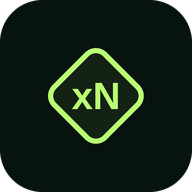
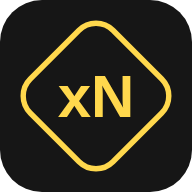
Switch the site to the xNotary.digital family theme: ink bar, highlighter
The look agreed in concept R03 (T4 Ink bar + the T2 highlighter), set as
token values only:

- a black bar (#161616) closed by a 3px yellow rule (#FFD84D); the brand
  mark, the "I want to…" button and the current tab are yellow
- warm-white pages (#FFFDF6) with white cards and black type, landing
  pages included — xNotary's dark green home is retired
- yellow buttons with black text and a black border
- a highlighter stroke behind "prove." on the front page
- a black footer with yellow links

Semantic tones (ok, warn, bad) are untouched, and the offline band stays
a muted beige, distinct from the chrome yellow. The green-grey text
scale becomes a warm one, which also lifts the faintest text from about
3.3:1 to 5.5:1 or better; every pair checked is WCAG AA. Favicons, app
icons, theme-color and the manifest colours follow.

The token names --white and --lime are kept, though they now hold
#111111: family apps that copy app.css refer to them.

diff --git a/app/src/app.css b/app/src/app.css
@@ -1,16 +1,15 @@
 /*
  * xNotary design system.
  *
- * Two surfaces, deliberately different:
+ * The xNotary.digital family look, shared with the front page and the other
+ * services: a black bar closed by a yellow rule, warm-white pages with white
+ * cards and black type, and yellow used like a highlighter — the current tab,
+ * the buttons, the brand mark, one marked word in a headline. Documents are
+ * what this is about, and a document is a light thing; the bar and the footer
+ * frame it.
  *
- *   - The landing view is dark (--bg) with a lime accent. It is the face of the
- *     product and the only page a visitor sees before deciding to trust it.
- *   - Every working screen is "paper" (--paper) with white cards. Documents are
- *     what this app is about, and a document is a light thing.
- *
- * The appearance is fixed rather than following prefers-color-scheme: the two
- * surfaces carry meaning here (you are reading about it / you are working on a
- * document), and inverting one of them breaks that.
+ * The appearance is fixed rather than following prefers-color-scheme: the
+ * surfaces carry meaning here, and inverting one of them breaks that.
  *
  * Every colour lives in :root below; the rules only ever say var(--…). A theme
  * is therefore a set of token values and nothing else. Semantic tones (ok, warn,
@@ -18,20 +17,23 @@
  */
 
 :root {
-  /* Dark surface — landing, top bar, footer */
-  --bg: #07130f;
-  --bg-soft: #0b1b16;
-  --white: #f8faf6;
-  --line: rgba(222, 234, 226, 0.14);
-  --lime: #baff73;
-  --mint: #59e6bd;
-  --green: #173f32;
+  /* Landing surface — the front page and xNotary's own home.
+     The names are historical (this surface was dark green with a lime accent):
+     --white is its text and --lime its accent. They are kept because other
+     family apps copy this file and refer to them. */
+  --bg: #fffdf6;
+  --bg-soft: #161616;
+  --white: #111111;
+  --line: rgba(17, 17, 17, 0.22);
+  --lime: #111111;
+  --mint: #111111;
+  --green: #111111;
 
   /* Paper surface — every product screen */
-  --paper: #f4f3ed;
-  --ink: #10201a;
-  --ink-soft: #5e6a65;
-  --line-dark: rgba(16, 32, 26, 0.13);
+  --paper: #fffdf6;
+  --ink: #111111;
+  --ink-soft: #3a3527;
+  --line-dark: rgba(17, 17, 17, 0.16);
 
   /* Semantic tones, on paper */
   --ok: #236048;
@@ -45,123 +47,124 @@
   --bad-line: #e9c5c0;
 
   /* Top bar — its own surface, so it can stay dark when the pages are light */
-  --bar-bg: rgba(7, 19, 15, 0.94);
-  --bar-fg: #f8faf6;
-  --bar-fg2: #acbab3;
-  --bar-line: rgba(222, 234, 226, 0.14);
-  --bar-rule: 1px solid rgba(222, 234, 226, 0.14);
-  --bar-hover: rgba(255, 255, 255, 0.045);
-  --bar-accent: #baff73;
-  --bar-current-fg: #baff73;
-  --bar-current-bg: rgba(186, 255, 115, 0.075);
-  --bar-chip: rgba(255, 255, 255, 0.035);
-  --bar-chip-hover-line: rgba(186, 255, 115, 0.35);
-  --bar-mark-line: rgba(186, 255, 115, 0.55);
-  --bar-mark-fg: #baff73;
-  --bar-mark-bg: rgba(186, 255, 115, 0.05);
-  --bar-focus: #59e6bd;
-  --caret: #8d9c95;
-  --task-fg: #baff73;
-  --task-line: rgba(186, 255, 115, 0.35);
-  --task-hover-fg: #baff73;
-  --task-hover-bg: rgba(186, 255, 115, 0.075);
-  --task-hover-line: rgba(186, 255, 115, 0.35);
-  --brand-domain: #9aaba3;
-  --stage-fg: #b7c2bc;
-  --stage-halo: rgba(186, 255, 115, 0.08);
+  --bar-bg: #161616;
+  --bar-fg: #f2efe6;
+  --bar-fg2: #c9c3b0;
+  --bar-line: rgba(255, 255, 255, 0.18);
+  --bar-rule: 3px solid #ffd84d;
+  --bar-hover: rgba(255, 255, 255, 0.08);
+  --bar-accent: #ffd84d;
+  --bar-current-fg: #111111;
+  --bar-current-bg: #ffd84d;
+  --bar-chip: rgba(255, 255, 255, 0.06);
+  --bar-chip-hover-line: #f2efe6;
+  --bar-mark-line: #ffd84d;
+  --bar-mark-fg: #ffd84d;
+  --bar-mark-bg: transparent;
+  --bar-focus: #ffd84d;
+  --caret: #c9c3b0;
+  --task-fg: #ffd84d;
+  --task-line: #ffd84d;
+  --task-hover-fg: #111111;
+  --task-hover-bg: #ffd84d;
+  --task-hover-line: #ffd84d;
+  --brand-domain: #c9c3b0;
+  --stage-fg: #c9c3b0;
+  --stage-halo: rgba(255, 216, 77, 0.18);
 
   /* Brand marks on the page (cards, menus, tags) */
-  --mark-line: rgba(186, 255, 115, 0.55);
-  --mark-fg: #baff73;
-  --mark-bg: rgba(186, 255, 115, 0.05);
+  --mark-line: #111111;
+  --mark-fg: #111111;
+  --mark-bg: transparent;
 
   /* Footer */
-  --footer-bg: #07130f;
-  --footer-rule: 1px solid rgba(222, 234, 226, 0.14);
-  --footer-focus: #59e6bd;
+  --footer-bg: #161616;
+  --footer-rule: none;
+  --footer-focus: #ffd84d;
 
   /* Focus ring on the pages */
-  --focus: #59e6bd;
+  --focus: #111111;
 
   /* Buttons */
-  --primary-bg: #baff73;
-  --primary-fg: #0d1a14;
-  --primary-line: transparent;
-  --primary-hover: #c9ff91;
-  --dark-btn-bg: #173f32;
-  --dark-btn-fg: #fff;
-  --dark-btn-line: transparent;
-  --dark-btn-hover: #205441;
+  --primary-bg: #ffd84d;
+  --primary-fg: #111111;
+  --primary-line: #111111;
+  --primary-hover: #ffcf26;
+  --dark-btn-bg: #ffd84d;
+  --dark-btn-fg: #111111;
+  --dark-btn-line: #111111;
+  --dark-btn-hover: #ffcf26;
 
   /* Landing surface, in detail */
-  --hero-glow: rgba(89, 230, 189, 0.1);
-  --hero-fg: #bac6c0;
-  --glass: rgba(255, 255, 255, 0.035);
-  --glass-hover: rgba(255, 255, 255, 0.055);
-  --glass-line: rgba(255, 255, 255, 0.14);
-  --glass-line-hover: rgba(255, 255, 255, 0.26);
-  --service-hover-line: rgba(186, 255, 115, 0.32);
-  --service-number: #789087;
-  --service-fg: #9eaea6;
-  --trust-fg: #84978e;
-  --future-fg: #c4cec9;
-  --vision-fg: #dfe8e3;
-  --vision-fg-soft: #9fb0a7;
-  --vision-bg: #0b1b16;
-  --footer-fg: #8d9c95;
-  --footer-link: #b6c5be;
+  --hero-glow: transparent;
+  --hero-fg: #2a2618;
+  --glass: #ffffff;
+  --glass-hover: #ffffff;
+  --glass-line: rgba(17, 17, 17, 0.45);
+  --glass-line-hover: #111111;
+  --service-hover-line: #111111;
+  --service-number: #57513f;
+  --service-fg: #3a3527;
+  --trust-fg: #3a3527;
+  --future-fg: #2a2618;
+  --vision-fg: #f2efe6;
+  --vision-fg-soft: #c9c3b0;
+  --vision-bg: #161616;
+  --vision-accent: #ffd84d;
+  --footer-fg: #c9c3b0;
+  --footer-link: #ffd84d;
 
   /* Text on solid fills (status icons) */
   --on-solid: #fff;
-  --ghost-dark-hover-line: #6f9183;
+  --ghost-dark-hover-line: #111111;
 
   /* Paper surface, in detail — every product screen */
-  --card: #fff;
-  --card-shadow: rgba(25, 42, 35, 0.055);
-  --well: #fafaf7;
-  --link: #1f6b50;
-  --link-hover: #14503b;
-  --link-button: #286c51;
-  --secure-fg: #477061;
-  --secure-mark: #2d9f72;
-  --step-fg: #8a9490;
-  --step-done: #32805f;
-  --drop-line: #aab7b1;
-  --drop-over-bg: #f1f6f3;
-  --drop-fg: #75817c;
-  --selected-line: #3d7a63;
-  --selected-bg: #f1f7f4;
-  --file-icon-line: #99aca3;
-  --file-icon-shadow: #e3e9e5;
-  --privacy-fg: #65746e;
-  --privacy-mark: #207957;
-  --faint: #7a8580;
-  --quiet: #65736d;
-  --note-fg: #47554e;
-  --input-line: #c7cfcb;
-  --focus-line: #537e6d;
-  --focus-ring: rgba(57, 129, 99, 0.09);
-  --field-help: #7c8782;
-  --side-fg: #56655e;
-  --side-mark: #25815e;
-  --pill-muted-fg: #5c6a64;
-  --pill-muted-bg: #e8ebe7;
-  --result-fg: #607068;
-  --signer-hover-line: #9fb2a9;
-  --meta-fg: #7a8680;
-  --search-line: #cbd2ce;
-  --search-bg: #fafaf8;
-  --table-head-fg: #7b8781;
-  --table-head-bg: #f7f7f3;
-  --hash-fg: #84908a;
-  --table-value: #52615a;
-  --more-hover-bg: #f0f2ef;
-  --storage-mark: #2d7b5d;
-  --how-number: #2e7258;
-  --boundary-fg: #58665f;
-  --explain-summary: #2b5b48;
-  --progress-track: #e6eae7;
-  --popover-shadow: rgba(4, 12, 9, 0.4);
+  --card: #ffffff;
+  --card-shadow: rgba(40, 32, 0, 0.06);
+  --well: #fbf8ee;
+  --link: #111111;
+  --link-hover: #3a3527;
+  --link-button: #111111;
+  --secure-fg: #3a3527;
+  --secure-mark: #111111;
+  --step-fg: #6b6450;
+  --step-done: #3a3527;
+  --drop-line: #8f8668;
+  --drop-over-bg: #fff3c4;
+  --drop-fg: #57513f;
+  --selected-line: #111111;
+  --selected-bg: #fff3c4;
+  --file-icon-line: #8f8668;
+  --file-icon-shadow: #ede6cf;
+  --privacy-fg: #57513f;
+  --privacy-mark: #111111;
+  --faint: #6b6450;
+  --quiet: #57513f;
+  --note-fg: #3a3527;
+  --input-line: #b5ad94;
+  --focus-line: #111111;
+  --focus-ring: rgba(255, 216, 77, 0.45);
+  --field-help: #6b6450;
+  --side-fg: #3a3527;
+  --side-mark: #111111;
+  --pill-muted-fg: #57513f;
+  --pill-muted-bg: #eee9da;
+  --result-fg: #3a3527;
+  --signer-hover-line: #8f8668;
+  --meta-fg: #6b6450;
+  --search-line: #b5ad94;
+  --search-bg: #ffffff;
+  --table-head-fg: #57513f;
+  --table-head-bg: #f7f3e6;
+  --hash-fg: #6b6450;
+  --table-value: #3a3527;
+  --more-hover-bg: #f3eedd;
+  --storage-mark: #111111;
+  --how-number: #111111;
+  --boundary-fg: #3a3527;
+  --explain-summary: #111111;
+  --progress-track: #e9e3cf;
+  --popover-shadow: rgba(40, 32, 0, 0.22);
 
   /* Semantic tones, deeper shades */
   --ok-text: #2b5b48;
@@ -188,23 +191,23 @@
   --bad-solid: #b95148;
 
   /* Shared site bar menus and the front page (src/site/) */
-  --accent-line: rgba(186, 255, 115, 0.35);
-  --menu-bg: #0b1b16;
-  --menu-fg: #f8faf6;
-  --menu-line: rgba(222, 234, 226, 0.14);
-  --menu-current-bg: rgba(186, 255, 115, 0.075);
-  --menu-fg2: #8d9c95;
-  --hub-fg: #acbab3;
-  --hub-fg3: #8d9c95;
-  --chip-bg: transparent;
-  --marker: transparent;
-  --menu-hover: rgba(255, 255, 255, 0.05);
-  --menu-shadow: rgba(0, 0, 0, 0.45);
-  --tag-bg: rgba(255, 255, 255, 0.06);
+  --accent-line: #111111;
+  --menu-bg: #fffdf6;
+  --menu-fg: #111111;
+  --menu-line: rgba(17, 17, 17, 0.3);
+  --menu-current-bg: #fff3c4;
+  --menu-fg2: #57513f;
+  --hub-fg: #3a3527;
+  --hub-fg3: #6b6450;
+  --chip-bg: #fff3c4;
+  --marker: #ffd84d;
+  --menu-hover: #fff3c4;
+  --menu-shadow: rgba(40, 32, 0, 0.22);
+  --tag-bg: #f3eedd;
 
   --radius: 16px;
 
-  color-scheme: dark;
+  color-scheme: light;
 }
 
 * {
@@ -1604,7 +1607,7 @@ footer.site :focus-visible {
 }
 
 .vision-strip > span {
-  color: var(--lime);
+  color: var(--vision-accent);
   font-size: 12px;
   font-weight: 750;
 }

diff --git a/app/index.html b/app/index.html
@@ -4,13 +4,13 @@
     <meta charset="UTF-8" />
     <link rel="icon" type="image/svg+xml" href="./favicon.svg" />
     <meta name="viewport" content="width=device-width, initial-scale=1.0" />
-    <meta name="color-scheme" content="dark" />
+    <meta name="color-scheme" content="light" />
     <meta
       name="description"
       content="Self-custodial notarization: hash a file locally, timestamp it on Bitcoin, attest the electronic signatures made over it elsewhere. No xNotary backend, no accounts, no uploads."
     />
     <link rel="manifest" href="./manifest.webmanifest" />
-    <meta name="theme-color" content="#07130f" />
+    <meta name="theme-color" content="#161616" />
     <title>xNotary — Proof for any document</title>
   </head>
   <body>

diff --git a/app/hub/index.html b/app/hub/index.html
@@ -4,12 +4,12 @@
     <meta charset="UTF-8" />
     <link rel="icon" type="image/svg+xml" href="/favicon.svg" />
     <meta name="viewport" content="width=device-width, initial-scale=1.0" />
-    <meta name="color-scheme" content="dark" />
+    <meta name="color-scheme" content="light" />
     <meta
       name="description"
       content="Free, open-source document tools that work in your browser: timestamp a document in Bitcoin, certify who signed it, make a signature and sign a PDF. Nothing is uploaded."
     />
-    <meta name="theme-color" content="#07130f" />
+    <meta name="theme-color" content="#161616" />
     <title>xNotary.digital — Independent document tools</title>
   </head>
   <body>

diff --git a/app/vite.config.ts b/app/vite.config.ts
@@ -317,8 +317,8 @@ function webManifest(): Plugin {
             description:
               'Self-custodial notarization: hash a file locally, timestamp it on Bitcoin, ' +
               'attest the electronic signatures made over it elsewhere.',
-            theme_color: '#07130f',
-            background_color: '#07130f',
+            theme_color: '#161616',
+            background_color: '#161616',
             display: 'standalone',
             // The identity installs made before 0.5.0 already have: their
             // start_url was the site root. Keeping it lets browsers update

diff --git a/app/src/site/site.css b/app/src/site/site.css
@@ -167,6 +167,9 @@ a.nav-link[aria-current='page'] {
   font-weight: 720;
   white-space: nowrap;
 }
+.task-btn .caret {
+  color: inherit;
+}
 .task-btn:hover,
 .task-btn[aria-expanded='true'] {
   border-color: var(--task-hover-line);
